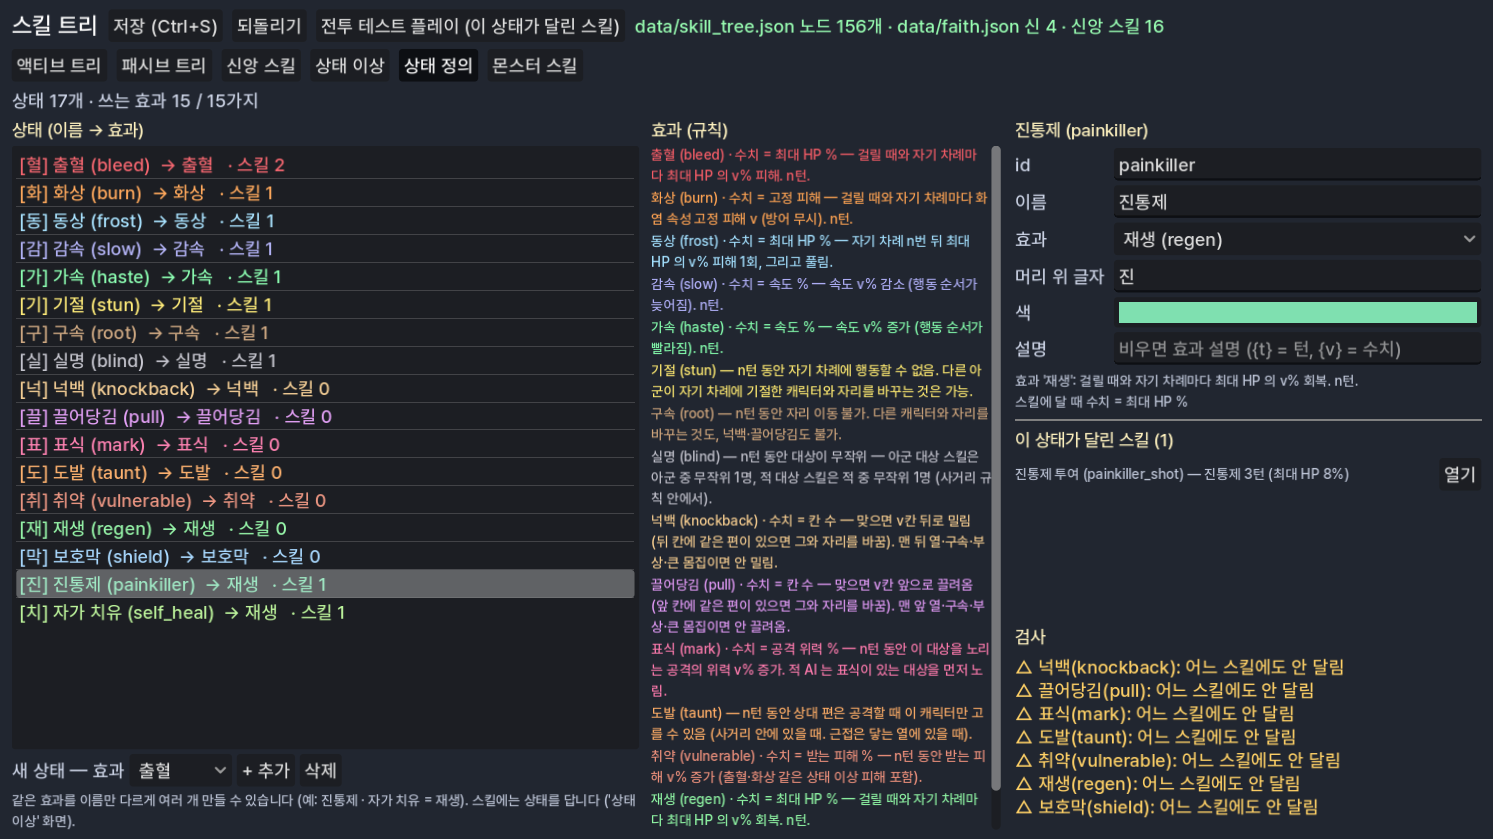
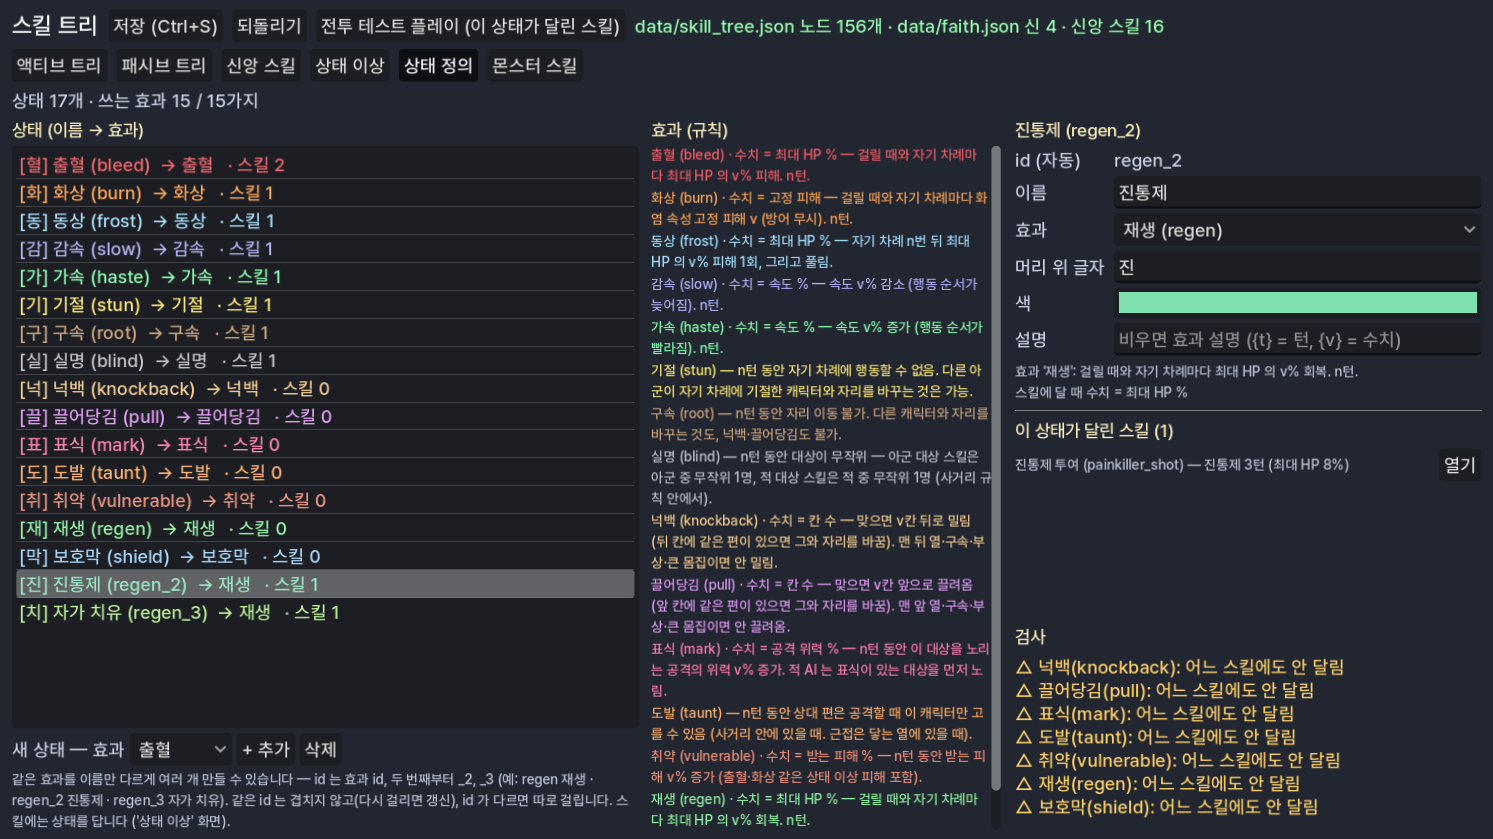
상태 id = 효과 id + _2·_3 (같은 id 는 안 겹침, id 가 다르면 따로 걸림)
- 진통제 regen_2 · 자가 치유 regen_3 (painkiller·self_heal 에서 바꿈)
- 에디터 상태 정의: id 자동, 효과를 바꾸면 그 효과의 다음 번호로 (달린 스킬도 따라감)
- 검사: id 가 효과 또는 효과_숫자(2 이상)가 아니면 오류

Claude-Session: https://claude.ai/code/session_014aytw3hj7boqn3SZ5GP5ti

diff --git a/tools/gen_skill_status.py b/tools/gen_skill_status.py
@@ -10,7 +10,7 @@ if os.path.exists(OUT) and "--force" not in sys.argv:
 
 # [임시] (스킬 id, 상태, 턴, 수치, 확률)
 STATUSES = [
-    ("painkiller_shot", "painkiller", 3, 8, 100), ("self_heal", "self_heal", 3, 6, 100),   # 상태 정의(data/statuses.json): 진통제·자가 치유 = 효과 재생
+    ("painkiller_shot", "regen_2", 3, 8, 100), ("self_heal", "regen_3", 3, 6, 100),   # 상태 정의(data/statuses.json): regen_2 진통제 · regen_3 자가 치유 = 효과 재생
     ("brutal_strike", "stun", 1, 0, 50),
     ("flank", "bleed", 2, 10, 100),
     ("inspire", "haste", 2, 30, 100),

diff --git a/README.md b/README.md
@@ -208,10 +208,11 @@ git 이 없는 설치(zip)는 같은 설치 명령을 다시 실행하면 최신
 ![신앙 스킬 에디터 (스킬 트리 탭 → 신앙 스킬)](docs/screenshots/faith_editor.png)
 
 ## 전투 상태 이상
-**상태 = 이름 + 효과(규칙)**. 같은 효과를 이름만 다르게 여러 상태로 씁니다 — 예: 앨마 `진통제 투여` → 상태 `진통제`, 하나 `자가 치유` → 상태 `자가 치유`, 둘 다 효과 **재생**.
-- **상태 정의 = 에디터 `스킬 트리` 탭 → `상태 정의`** (`data/statuses.json`): 상태마다 id · 이름 · **효과** · 머리 위 글자 · 색 · 설명(비우면 효과 설명). `새 상태 — 효과` 고르고 `+ 추가`, `삭제`(달린 스킬에서도 뺌). id 를 바꾸면 달린 스킬도 따라 바뀜. 오른쪽 아래에 그 상태가 달린 스킬 목록(`열기`).
+**상태 = 이름 + 효과(규칙)**. 같은 효과를 이름만 다르게 여러 상태로 씁니다 — 예: 앨마 `진통제 투여` → 상태 `진통제`(`regen_2`), 하나 `자가 치유` → 상태 `자가 치유`(`regen_3`), 둘 다 효과 **재생**(`regen`).
+**상태 id = 효과 id, 같은 효과의 두 번째부터 `_2`, `_3` …** (자동). **같은 id 는 겹치지 않음** — 다시 걸리면 하나로 남고 남은 턴·수치 큰 쪽으로 갱신. id 가 다르면 같은 효과라도 따로 걸려 둘 다 적용.
+- **상태 정의 = 에디터 `스킬 트리` 탭 → `상태 정의`** (`data/statuses.json`): 상태마다 id(자동) · 이름 · **효과** · 머리 위 글자 · 색 · 설명(비우면 효과 설명). `새 상태 — 효과` 고르고 `+ 추가`(id = 그 효과의 다음 번호), `삭제`(달린 스킬에서도 뺌). 효과를 바꾸면 id 도 새 효과 번호로 바뀌고 달린 스킬도 따라감. 오른쪽 아래에 그 상태가 달린 스킬 목록(`열기`). 검사: id 가 `효과` 또는 `효과_숫자(2 이상)` 가 아니면 오류.
 - **스킬에 다는 곳 = `상태 이상`** (`data/skill_status.json`): 스킬에는 상태(id)를 답니다. 수치의 뜻은 효과마다(출혈 = 최대 HP %, 넉백 = 칸 수 …).
-- 게임 규칙은 효과로만 판단 (`StatusCatalog.effect_of`) → 이름을 바꾸거나 같은 효과의 새 상태를 만들어도 규칙이 그대로 적용. 이름이 다른 같은 효과 둘은 따로 걸림(둘 다 차례마다 적용).
+- 게임 규칙은 효과로만 판단 (`StatusCatalog.effect_of`) → 이름을 바꾸거나 같은 효과의 새 상태를 만들어도 규칙이 그대로 적용.
 
 스킬에 상태 이상을 달면 맞은 대상에게 확률로 걸립니다:
 왼쪽 스킬 목록(전체 / 상태 이상 달린 것 / 아군이 쓰는 것 / 괴물이 쓰는 것, 달린 상태 표시) → 오른쪽에서 `+ 상태 이상 추가`, 상태·턴·수치(효과마다 뜻 표시)·확률, `빼기`. **한 스킬에 여러 개**(각각 따로 확률). 가운데에 상태 설명(이름 → 효과), 아래 검사.
@@ -238,7 +239,7 @@ git 이 없는 설치(zip)는 같은 설치 명령을 다시 실행하면 최신
 - 화면: 머리 위 배지(한 글자 + 남은 턴: `혈2`, `기1`, 동상은 터지기까지 남은 차례), 하단 상태 칸에 이름·남은 턴(마우스를 올리면 설명), 피해 숫자에 상태 이름, 걸릴 때 `출혈!`. 스킬 칸 설명에도 상태 이상 표시.
 - 전투가 끝나면 전투 상태 이상은 사라짐 (기지로 넘어가는 건 부상 등 기지 상태만).
 - [임시] 스킬: 강타 = 기절 1턴 50% · 측면 기습 = 출혈 2턴 10% · 고무 = 가속 2턴 30% · 소이탄(하나 액티브 북 끝) = 화상 2턴 4 · 제압 사격(이선 액티브 동 끝) = 감속 2턴 30%.
-  진통제 투여(`painkiller_shot`, 지원 AP 2, 아군 1명) = 진통제 3턴 8% · 자가 치유(`self_heal`, 지원 AP 1, 자신) = 자가 치유 3턴 6% — 엑셀 스킬 시트에 추가, **아직 아무 캐릭터에게도 안 줌** (스킬 트리 에디터에서 노드로 넣기). 넉백·끌어당김·표식·도발·취약·보호막은 아직 단 스킬 없음.
+  진통제 투여(`painkiller_shot`, 지원 AP 2, 아군 1명) = 진통제(`regen_2`) 3턴 8% · 자가 치유(`self_heal`, 지원 AP 1, 자신) = 자가 치유(`regen_3`) 3턴 6% — 엑셀 스킬 시트에 추가, **아직 아무 캐릭터에게도 안 줌** (스킬 트리 에디터에서 노드로 넣기). 넉백·끌어당김·표식·도발·취약·보호막은 아직 단 스킬 없음.
   괴물(몬스터 스킬 탭에서 고침): 구울 할퀴기 = 출혈 2턴 8% · 무덤의 냉기 = 동상 2턴 20% / 늑대 발목 물기 = 구속 2턴 · 모래 차기 = 실명 1턴 70%. AI 그래프에 '그 스킬의 상태 이상이 없는 대상' 규칙 추가 (필살기 다음에 상태 이상 스킬, 다 걸려 있으면 강공격).
 - 확인: `godot --path . ++ --scene=battle --battle_status=a_dan:bleed:2:10;wolf:frost:2:20` (캐릭터 id 또는 스프라이트:상태:턴:수치).
 

diff --git a/docs/design/PROTOTYPE_GDD_v1_0.md b/docs/design/PROTOTYPE_GDD_v1_0.md
@@ -4,7 +4,7 @@
 
 ## 0. 현재 구현 반영 (변경될 때마다 갱신)
 > 아래는 원 기획 이후 사용자 결정으로 바뀐 내용. 상세 결정 이력은 `00_decision_log_v1_0.md`, 아트 규격은 `../ui_art_spec.md`.
-> 마지막 갱신: 2026-10-28 (상태 이상 7종 추가 · 상태 = 이름 + 효과 id)
+> 마지막 갱신: 2026-10-28 (상태 id = 효과 id + _2·_3 — 같은 id 는 안 겹침, id 가 다르면 따로 걸림)
 
 - **표현**: 캐릭터 2D **스프라이트 프레임 애니메이션**(**스프라이트 시트** `assets/characters/<id>/<동작>_<칸 수>.png`, 사용자가 제작 — 시트 없는 동작은 기본 그림 한 장. 현재: 하나·니키타·키라·단·이선·앨마 idle(기본 그림 숨쉬기) — 니키타(빨간 머리 의무병 코트)·키라(회색 군복, 최종)·하나(곱슬머리 군복·오른쪽 눈 아래 점, 최종)·앨마(흰 의무 가운)는 새 그림으로 교체되어 예전 걷기·피격·공격 시트는 지움) + 배경 3D(실광원·그림자). Skeleton2D 리그·3D 캐릭터 전환은 제거.
   칠 방식: **전 캐릭터 네온 칠**(선화는 원화 그대로, 면은 원화 밝기대로 조명색으로 덮음 — 어두운 면은 깊은 보라, 밝은 면은 조명색). `character.json` `"style": "classic"` 이면 예전 셀 칠, `"neon_gradient"` 0~1 = 몸 위→아래 색상 그라데이션(기본 끔).
@@ -23,7 +23,8 @@
   효과는 기지에서 출전한 전투에만(복제본). **노드는 `data/skill_tree.json` — Godot 에디터 `스킬 트리` 탭에서 직접 짬**(노드 추가·삭제·순서, 갈래마다 1~4단계, 이름·필요 레벨·효과·값·설명, 다른 캐릭터 트리 가져오기, 검사, 테스트 플레이). 지금 데이터는 갈래 3단계, 새 스킬은 액티브 갈래 끝에서만(기본 스킬 칸 3개). [임시] 수치·필요 레벨(시작 +0/+2/+4)·무료 초기화.
 - **전투 상태 이상**: 출혈(최대 HP v%/차례) · 화상(화염 고정 v, 방어 무시) · 동상(차례 n번 뒤 최대 HP v% 1회 후 해제) · 감속/가속(속도 v%) · 기절(n턴 행동 불가, 다른 아군이 기절한 캐릭터와 자리 교환은 가능) · 구속(n턴 이동·교환 불가) · 실명(n턴 대상 무작위: 아군 대상 → 아군 중, 적 대상 → 적 중).
   넉백(맞으면 v칸 뒤로, 같은 편과 자리 바꿈) · 끌어당김(v칸 앞으로) · 표식(n턴 이 대상 노리는 공격 위력 v%↑, 적 AI 우선 대상) · 도발(n턴 상대 편은 닿으면 이 캐릭터만 공격) · 취약(n턴 받는 피해 v%↑, 상태 이상 피해 포함) · 재생(걸릴 때·차례마다 최대 HP v% 회복) · 보호막(피해 v 대신 막고 사라짐, 최대 n턴).
-  **상태 = 이름 + 효과 id** (`data/statuses.json`, 에디터 `상태 정의`): 같은 효과를 이름만 다르게 — 예: 진통제·자가 치유 = 재생. 규칙은 효과로만 판단.
+  **상태 = 이름 + 효과 id** (`data/statuses.json`, 에디터 `상태 정의`): 같은 효과를 이름만 다르게 — 예: regen 재생 · regen_2 진통제 · regen_3 자가 치유. 규칙은 효과로만 판단.
+  **상태 id = 효과 id, 같은 효과 두 번째부터 `_2`, `_3`**. 같은 id 는 겹치지 않음(다시 걸리면 갱신), id 가 다르면 같은 효과라도 따로 걸림.
   적용 = 처음 걸릴 때 한 번 + 그 캐릭터 차례마다 행동보다 먼저. n턴 = 그 캐릭터 차례 n번(차례 끝에 1 감소, 동상은 차례 시작에 감소). **스킬에 다는 곳 = 에디터 `스킬 트리` 탭 → `상태 이상` (`data/skill_status.json`)**, 한 스킬에 여러 개(각각 확률). 전투가 끝나면 사라짐. [임시] 어느 스킬에 무엇을 달지·수치.
 - **신앙 스킬** (스킬 창 신앙 탭): 캐릭터마다 믿는 신, 신에 따라 배울 수 있는 신앙 스킬이 다름. 신앙도(0~100) ≥ 필요신앙이면 포인트 없이 배움(미달 = 회색 + 붉은 "신앙 부족"), 출전마다 +5.
   **신·신앙 스킬은 `data/faith.json` — Godot 에디터 `스킬 트리` 탭 → `신앙 스킬` 에서 짬** (믿는 신·시작 신앙도는 엑셀 캐릭터 시트). [임시 데이터] 신 4종 × 스킬 4개, 효과는 스킬 트리와 같은 형식(전투 복제본에 반영).

diff --git a/docs/design/00_decision_log_v1_0.md b/docs/design/00_decision_log_v1_0.md
@@ -248,6 +248,8 @@
   - 이름이 다른 같은 효과 둘은 따로 걸림 (둘 다 적용). 같은 상태가 다시 걸리면 남은 턴·수치 큰 쪽 (기존 규칙).
   - [임시] 진통제 투여(아군 1명, AP 2) = 진통제 3턴 8% · 자가 치유(자신, AP 1) = 자가 치유 3턴 6%. 엑셀 스킬 시트에 추가했지만 캐릭터에게는 아직 안 줌.
 
+- (2026-10-28, 사용자 지정) **상태 id 규칙: 효과 id + `_2`, `_3` …** — 같은 id 의 효과는 중복되지 않으므로(다시 걸리면 하나로 갱신), 같은 효과를 따로 걸리게 하려면 id 를 번호로 구분. 진통제 = `regen_2`, 자가 치유 = `regen_3` (예전 `painkiller`·`self_heal` 에서 바꿈). 에디터는 id 를 자동으로 매김(직접 입력 없음), 효과를 바꾸면 그 효과의 다음 번호로.
+
 ## 검증 중 (확정 아님)
 - **배경 3D + 캐릭터 2D 하이브리드** (2026-10-25 적용): 배경은 3D 방을 2D 카메라와 같은 투영으로 렌더, 캐릭터 라이팅은 실제 광원 위치 기준
   (빛 쪽 얼굴·몸을 광원색으로 밝힘 + 빛이 뒤에서 오면 같은 쪽 가장자리 림 + 바닥 그림자). 캐릭터 2D(리그)는 확정 사항 유지. (이전 2D 배경 판은 2026-10-27 제거.)
